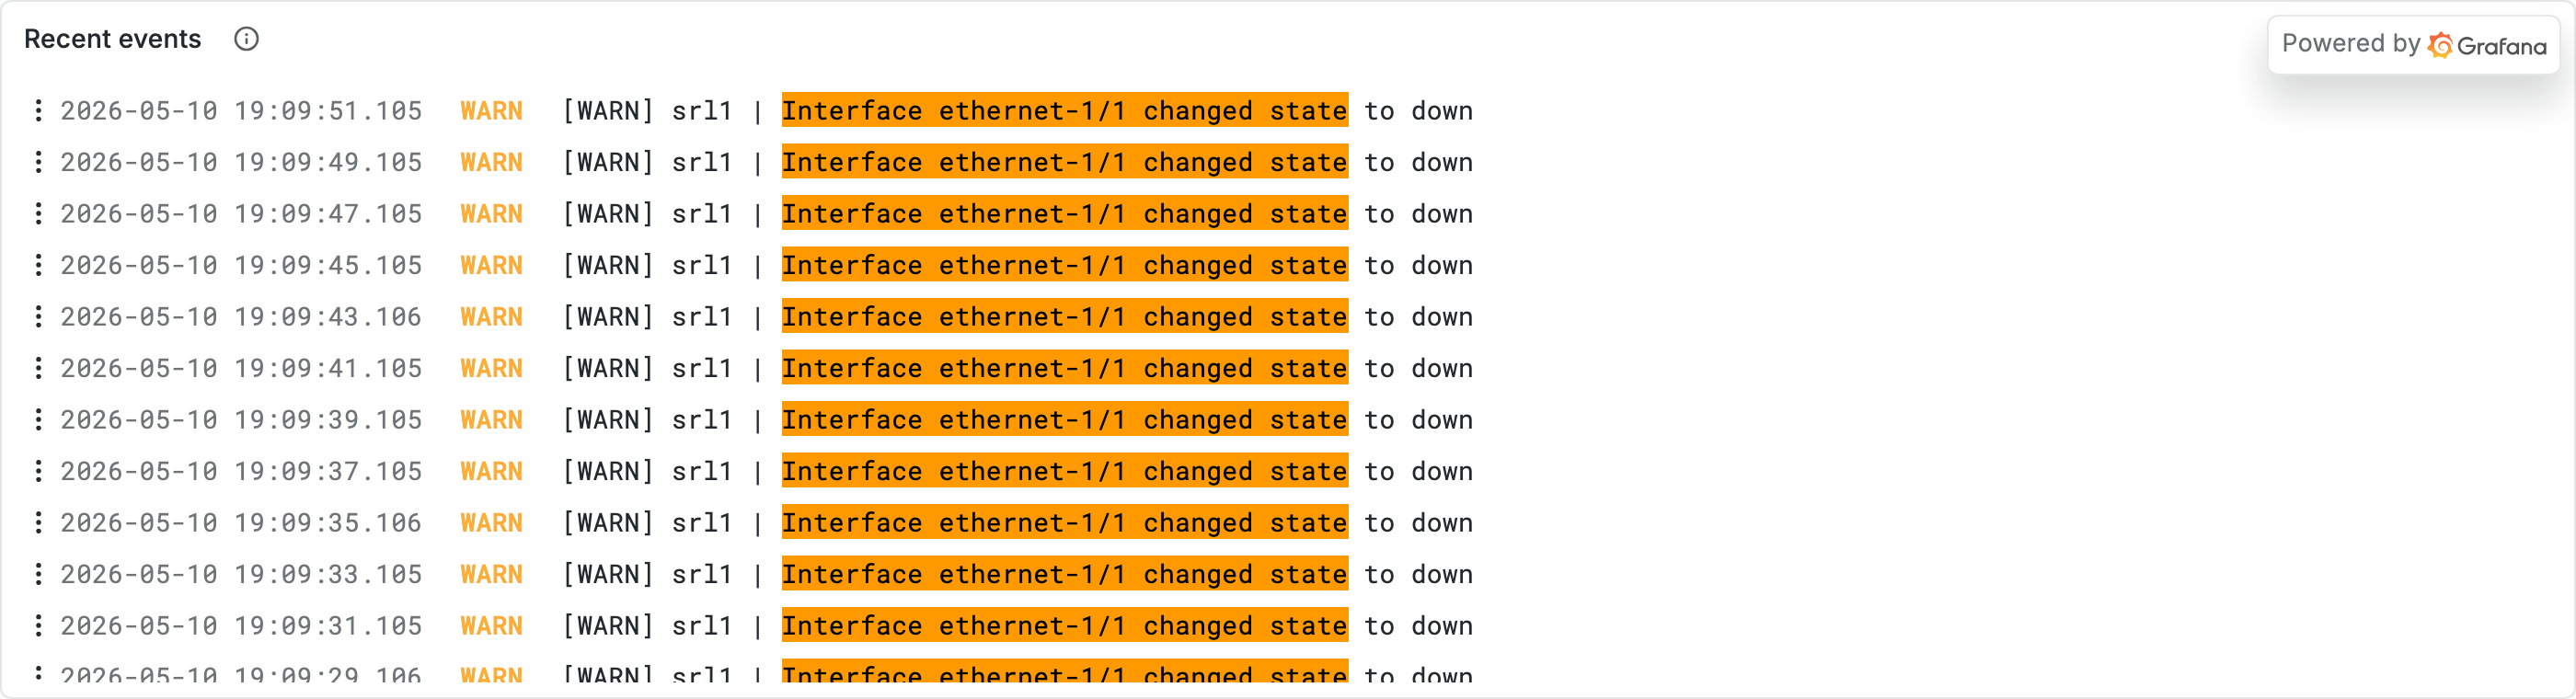
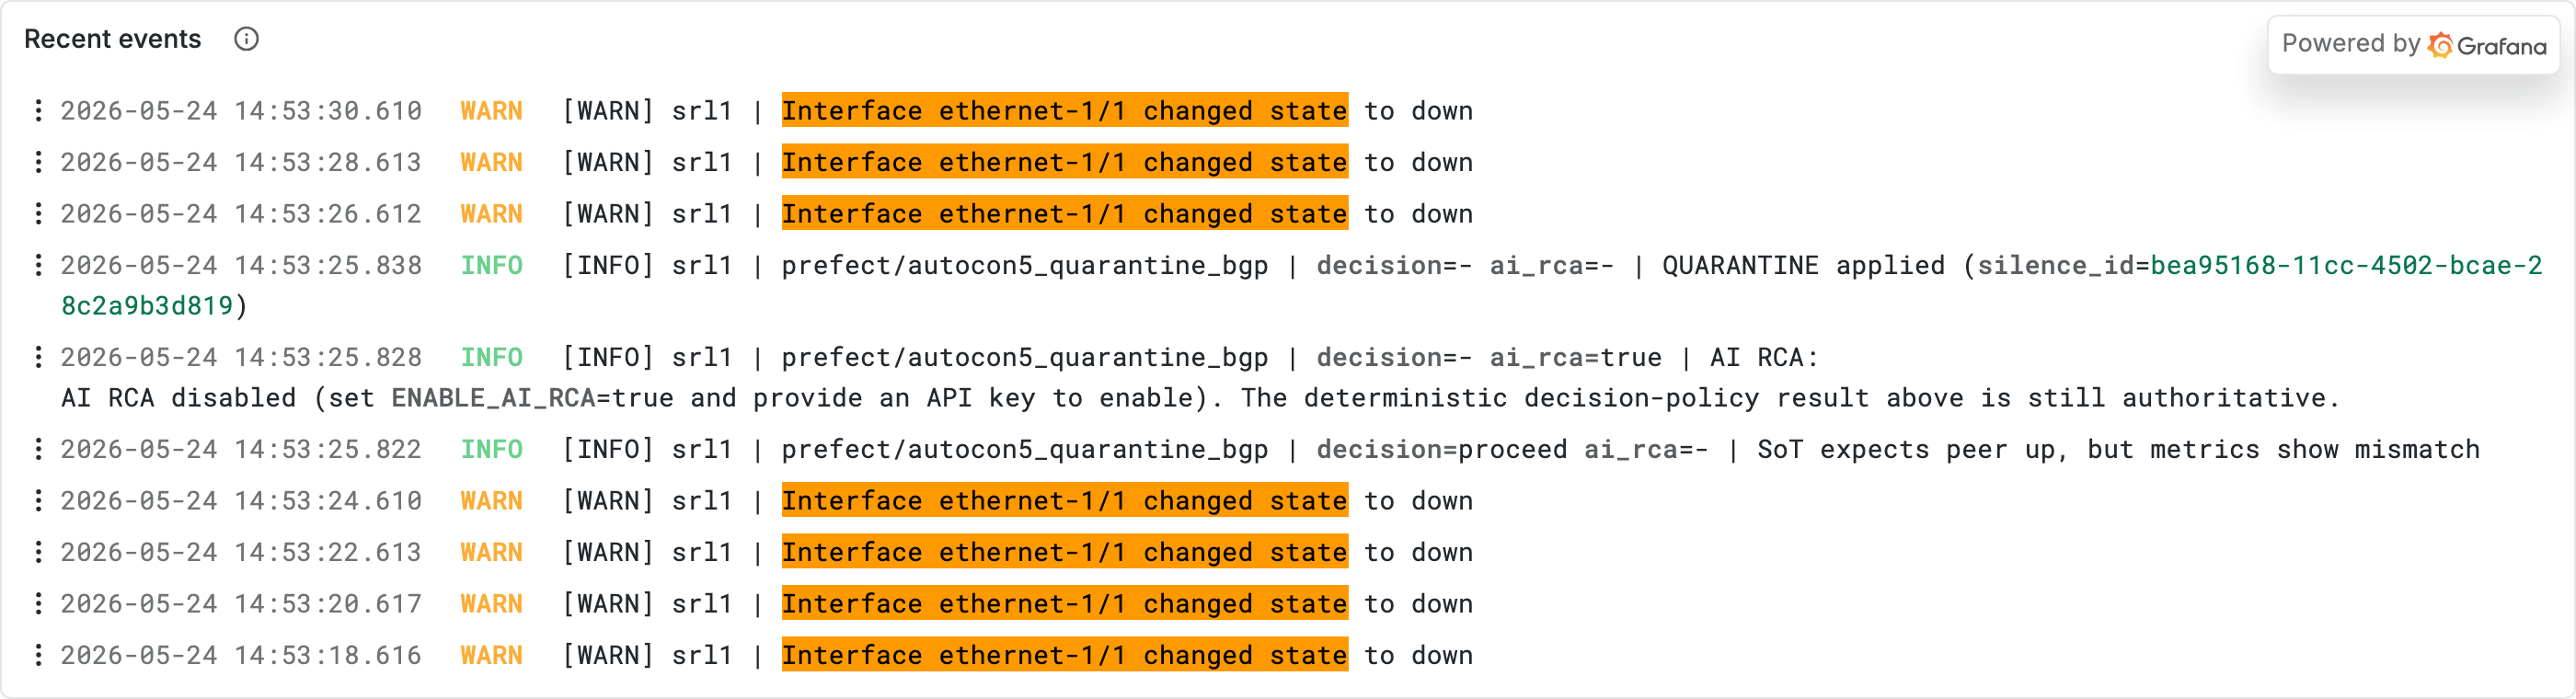
docs(part-2): alert-rule explainer + flap-history table stretch goal (#73)

diff --git a/workshops/autocon5/guides/part-2-dashboards.md b/workshops/autocon5/guides/part-2-dashboards.md
@@ -75,7 +75,16 @@ Two things to notice:
 - `$device` is the dashboard variable. Grafana substitutes it before sending the query, so this panel becomes `srl1`-aware or `srl2`-aware automatically.
 - `count_over_time(...[2m])` counts UPDOWN log lines in a rolling 2-minute window — the same window the `PeerInterfaceFlapping` alert rule uses. `sum by (interface)` groups so each interface gets its own line.
 
-Click **Run query**. **You should see flat lines near zero** — typically hovering at 0 or 1. With `$device=srl1` you'll see a quiet line for `ethernet-1/11` (the always-broken interface). With `$device=srl2`, similar near-zero lines for one or two interfaces. None should be anywhere near the alert threshold (3) in steady state.
+Click **Run query**. **At rest you'll see at most one line — `ethernet-1/11`, the always-broken interface — hovering at 1**, well below the alert threshold of 3. Healthy interfaces don't show up at all; if nothing is flapping, the panel is honest about that:
+
+<figure class="section-preview" markdown>
+
+![Flap rate panel at baseline](../../../docs/assets/screenshots/flap-rate-baseline-light.png#only-light){ .screenshot loading=lazy }
+![Flap rate panel at baseline](../../../docs/assets/screenshots/flap-rate-baseline-dark.png#only-dark){ .screenshot loading=lazy }
+
+<figcaption><strong>Baseline (no flap in progress)</strong> — one line for <code>ethernet-1/11</code> at 1 (the only interface that's actually flapping at rest, because it's broken by design). The other peer interfaces are silent. Anything else here means a real flap is in progress.</figcaption>
+
+</figure>
 
 ??? info "Why does srl1 sometimes show a label-less line?"
 
@@ -114,6 +123,37 @@ In the right-hand options, scroll to **Thresholds**. Set:
 | Orange | `1` |
 | Red | `3` |
 
+??? info "What's an alert rule?"
+
+    An **alert rule** is a query the rule evaluator runs on a schedule, plus a firing condition, an optional `for:` duration that filters out transients, and labels + annotations that travel with each firing instance. Here's the `PeerInterfaceFlapping` rule the thresholds above are mirroring:
+
+    ```yaml
+    - alert: PeerInterfaceFlapping
+      expr: sum by(device, interface) (count_over_time({vendor_facility_process="UPDOWN"}[2m])) > 3
+      for: 30s
+      labels:
+        severity: critical
+        source: loki
+        environment: network-observability-lab
+        device: '{{ $labels.device }}'
+        interface: '{{ $labels.interface }}'
+      annotations:
+        summary: "[NET] Flapping interface in {{ $labels.device }}/{{ $labels.interface }}"
+        description: "The interface {{ $labels.device }}/{{ $labels.interface }} is flapping"
+    ```
+
+    - **`expr`** — the firing condition. The same LogQL query the panel uses, with `> 3` appended. When the expression returns at least one series, the rule is matching.
+    - **`for: 30s`** — the condition must hold continuously for 30 seconds before the alert moves from `pending` to `firing`. Filters out transient noise.
+    - **`labels`** — attached to every firing instance. `severity` and `source` are what Alertmanager routes on; `device` / `interface` propagate the offending instance's identity through to the page.
+    - **`annotations`** — human-readable text rendered into notifications. `{{ $labels.x }}` interpolates from the firing series' labels.
+
+    **Where to see this rule live.** `PeerInterfaceFlapping` is evaluated by the **Loki ruler**, not Prometheus, so it does NOT show up on Prometheus `/alerts`:
+
+    - **When firing**: [Alertmanager](http://localhost:9093/#/alerts) — the Loki ruler pushes alerts here just like Prometheus does. Loki-evaluated rules and Prometheus-evaluated rules land in the same queue.
+    - **Always**: the rule lives in the repo at [`workshops/autocon5/loki/rules/alerting_rules.yml`](https://github.com/network-observability/workshops/blob/main/workshops/autocon5/loki/rules/alerting_rules.yml#L5) — that link jumps straight to the `PeerInterfaceFlapping` definition. There's no equivalent UI to Prometheus `/alerts` for Loki-defined rules — the Loki ruler doesn't ship one. The [Prometheus alerts page](../../../docs/workshop/tour.md#prometheus-the-metrics-store) in the Tour shows what that UI looks like for the rules Prometheus does evaluate.
+
+    Part 3 walks the full lifecycle — alert fires, Alertmanager routes, webhook hands off, Prefect flow decides what to do.
+
 Then under **Graph styles** → **Show thresholds**, pick `As lines`. **You should now see two horizontal lines on the panel preview — orange at 1, red at 3.** A flap rate above the red line means an alert is firing.
 
 > Your senior glances over. *"Thresholds matching the alert rule? Good. When the line crosses the orange one, the alert is firing. The panel should make the alert visible, not duplicate it."*
@@ -133,6 +173,15 @@ nobs autocon5 flap-interface --device srl1 --interface ethernet-1/1
 ```
 
 This kicks off a 4-minute cascade with the interface cycling 30s up, 60s down. UPDOWN log lines emit at a steady cadence (~one every two seconds) during each down window. Switch the dashboard's `Device` dropdown to `srl1` if you aren't already there.
+
+<figure class="section-preview" markdown>
+
+![Flap rate panel during a flap](../../../docs/assets/screenshots/flap-rate-flapping-light.png#only-light){ .screenshot loading=lazy }
+![Flap rate panel during a flap](../../../docs/assets/screenshots/flap-rate-flapping-dark.png#only-dark){ .screenshot loading=lazy }
+
+<figcaption><strong>During a flap (~2 min in)</strong> — green line is <code>ethernet-1/1</code>, climbing fast past the orange threshold (1) and through the red threshold (3) on its way to 16+. The yellow line is <code>ethernet-1/11</code>'s baseline (always-broken interface, value 2 in the rolling window). The flapped interface is the obvious anomaly against an otherwise quiet panel.</figcaption>
+
+</figure>
 
 **What you should see, in order:**
 
@@ -186,15 +235,66 @@ In the right-hand options, find **Overrides** and add an override on the new ser
 
 Pick any panel that doesn't already have one. Click edit, scroll to **Panel options** → **Description**. Write one or two sentences in the same student-facing prose style — what to look for, when to worry. Save. Hover the `i` icon to confirm.
 
-### Wire a "drill into Device Health" panel link
+### Build a flap-history table with drill-through
 
-In edit mode on any panel, scroll to **Panel options** → **Panel links** → **Add link**.
+> Your senior leans back in. *"Time-series tells you the shape. A table tells you the list — which device, which interface, how many flaps, click here to investigate. Build the second one. Make the device column a link into Device Health so a click takes you straight to the right view."*
 
-- **Title**: `Open Device Health for $device`
-- **URL**: `/d/c78e686b-138b-4deb-b6ae-3239dc10a162?var-device=$device`
-- Tick **Include time range** so the link carries the current dashboard's window.
+You're adding a second panel: a table that summarises flap activity per device + interface over the last hour, with the **device** column as a clickable link into the **Device Health** dashboard, preserving the time window.
 
-Save. The panel now has a small link icon at top — clicking it jumps to the **Device Health** dashboard with the device variable preserved. That's the dashboard equivalent of "if this panel goes red, here's where you go next".
+#### 1. Add the panel
+
+Back on the **Workshop Lab 2026** dashboard, **Edit** → **Add panel → Add visualization**. Pick the **`loki`** datasource.
+
+#### 2. Write the query
+
+```logql
+sum by (device, interface) (count_over_time({vendor_facility_process="UPDOWN"}[1h]))
+```
+
+A 1-hour window is "what's been flapping today" — wider than the 2-minute alert window so the table holds stable rows even between flaps. Click **Run query**.
+
+#### 3. Switch the panel type
+
+Right-hand options, panel-type dropdown at the top: choose **Table**. The result lands as a single-row table with a value column and the labels mashed into one cell — that's because Loki returns time-series-shaped data and the table needs help turning labels into proper columns.
+
+#### 4. Reshape with transformations
+
+Below the query box, click the **Transformations** tab → **+ Add transformation**.
+
+- Pick **Labels to fields**. Each Loki label (`device`, `interface`) becomes its own column.
+- Add a second transformation: **Organize fields**. Hide `Time` (the table doesn't need it), reorder so `device` is first and `interface` second, and rename the value column to `Total flaps`.
+
+You should now see one row per `device + interface` pair, with three clean columns: `device`, `interface`, `Total flaps`.
+
+#### 5. Title and description
+
+Right-hand options → **Panel options**:
+
+- **Title**: `Flap history (last 1h)`
+- **Description**: `UPDOWN events per device + interface over the last hour. Click any device cell to drill into Device Health for that device, time range preserved.`
+
+#### 6. Make the device cell a link
+
+Still in the right-hand options, scroll to **Overrides** → **Add field override** → **Fields with name** → pick `device`. On the override:
+
+- **Cell type**: `Auto` (or `Color text` if you want the link visually distinct).
+- **Data links** → **Add link**:
+    - **Title**: `Open Device Health for ${__value.text}`
+    - **URL**: `/d/c78e686b-138b-4deb-b6ae-3239dc10a162?var-device=${__value.raw}&from=${__from}&to=${__to}`
+
+`${__value.raw}` is the cell's raw label value (`srl1`, `srl2`). `${__from}` and `${__to}` are the dashboard's current time-range bounds — the link carries the window forward so the destination dashboard opens on the same minutes you were just looking at.
+
+#### 7. Save and try it
+
+**Apply**, then **Save dashboard**. Trigger a flap:
+
+```bash
+nobs autocon5 flap-interface --device srl1 --interface ethernet-1/10
+```
+
+Within a minute, a row for `srl1 / ethernet-1/10` shows up with a climbing `Total flaps` count. Click the `srl1` cell. Grafana jumps to **Device Health**, scoped to `srl1`, on the same time range you were on.
+
+**Stop and notice.** Tables are the dashboard equivalent of "a list of things to investigate, each row a one-click entry into deeper context". The time-series panel above tells you *something is flapping*. The table tells you *which one, how badly, and here's the next dashboard*. The data-link override is what binds the two dashboards into one navigation flow — no copy-pasting device names, no losing the time range.
 
 ## What you took away
 

diff --git a/workshops/autocon5/guides/part-1-telemetry-and-queries.md b/workshops/autocon5/guides/part-1-telemetry-and-queries.md
@@ -325,15 +325,15 @@ Aggregating logs over time turns a log query into a metric:
 sum by (device) (count_over_time({vendor_facility_process="UPDOWN"}[5m]))
 ```
 
-Switch the panel to `Time series`. You should see two lines (one per device) showing UPDOWN events per 5-minute window. With the lab in steady state the count sits at **a handful per device** — sonda emits a slow trickle, well below the `PeerInterfaceFlapping` alert's `> 3 events in 2 minutes` threshold.
+Switch the panel to `Time series`. You should see two flat lines (one per device) sitting around **two or three events per 5-minute window**. That floor is the always-broken `ethernet-1/11` on each device — the only interface that's actually flapping at rest. Healthy interfaces don't contribute because they don't emit anything when nothing's happening to them; that's the honest answer to "is anything flapping right now?".
 
-Trigger another flap:
+Trigger a flap on a previously-silent healthy interface and watch the line jump:
 
 ```bash
 nobs autocon5 flap-interface --device srl1 --interface ethernet-1/10
 ```
 
-Within ~30 seconds the `srl1` line jumps. **Stop and notice.** This is exactly how the `PeerInterfaceFlapping` alert reads logs in Part 3 — same shape, just with a `> 3` threshold and a `for: 30s` clause. Any LogQL aggregation query is a candidate alert rule.
+Within ~30 seconds the `srl1` line climbs sharply — past the `PeerInterfaceFlapping` alert's `> 3 events in 2 minutes` threshold and on toward 30+ as the cascade's down-phase log emissions stack into the rolling 5-minute window. The `srl2` line stays at its quiet baseline. **Stop and notice.** This is exactly how the `PeerInterfaceFlapping` alert reads logs in Part 3 — same shape, just with a `> 3` threshold and a `for: 30s` clause. Any LogQL aggregation query is a candidate alert rule.
 
 #### 11. Pipeline awareness on logs
 

diff --git a/workshops/autocon5/docs/data-pipelines.md b/workshops/autocon5/docs/data-pipelines.md
@@ -120,7 +120,7 @@ srl1 logs (direct)
 ┌──────────────────────────┐    loki sink (HTTP push)
 │ sonda-logs (srl1 streams)│  ─────────────────────────►  Loki
 │ - srl1_system_logs       │
-│ - srl1_updown_logs       │
+│ - srl1_broken_intf_logs  │
 │ - srl1_bgp_logs          │
 │ stream label:            │
 │   pipeline="direct"      │
@@ -130,7 +130,7 @@ srl2 logs (shipper / "RFC 5424 syslog → Vector → Loki")
 ┌──────────────────────────┐  syslog UDP   ┌──────────────────────────┐  HTTP   ┌──────┐
 │ sonda-logs (srl2 streams)│  vector:1514  │ vector                   │  push   │      │
 │ - srl2_system_logs       │  ────────────►│ - socket source          │ ───────►│ Loki │
-│ - srl2_updown_logs       │   RFC 5424    │   (codec=syslog)         │         │      │
+│ - srl2_broken_intf_logs  │   RFC 5424    │   (codec=syslog)         │         │      │
 │ - srl2_bgp_logs          │   syslog      │ - VRL: lift `.sonda.*`   │         │      │
 │ encoder: syslog          │   text        │   SD payload to labels   │         │      │
 │ sink: udp(vector:1514)   │               │ - static pipeline=vector │         │      │

diff --git a/docs/workshop/tour.md b/docs/workshop/tour.md
@@ -307,7 +307,7 @@ Useful when you just want a quick "what's firing right now?" without leaving the
 ![Recent events panel](../assets/screenshots/workshop-home-recent-events-light.png#only-light){ .screenshot loading=lazy }
 ![Recent events panel](../assets/screenshots/workshop-home-recent-events-dark.png#only-dark){ .screenshot loading=lazy }
 
-<figcaption><strong>Recent events</strong> · Workshop Home — every interface UPDOWN log line shows up here, regardless of which device or pipeline emitted it. The feed you watch when you trigger <code>flap-interface</code>.</figcaption>
+<figcaption><strong>Recent events</strong> · Workshop Home — three streams interleaved in time order: interface state-change logs from a flap cascade, <code>maintenance</code> trigger lines from the CLI, and Prefect workflow annotations (<code>decision=proceed</code>/<code>skip</code>/<code>resolved</code>, <code>QUARANTINE applied</code>, AI RCA narratives). Quiet at rest; the feed lights up when you drive a <code>flap-interface</code>, toggle <code>maintenance</code>, or any Prefect flow runs.</figcaption>
 
 </figure>
 